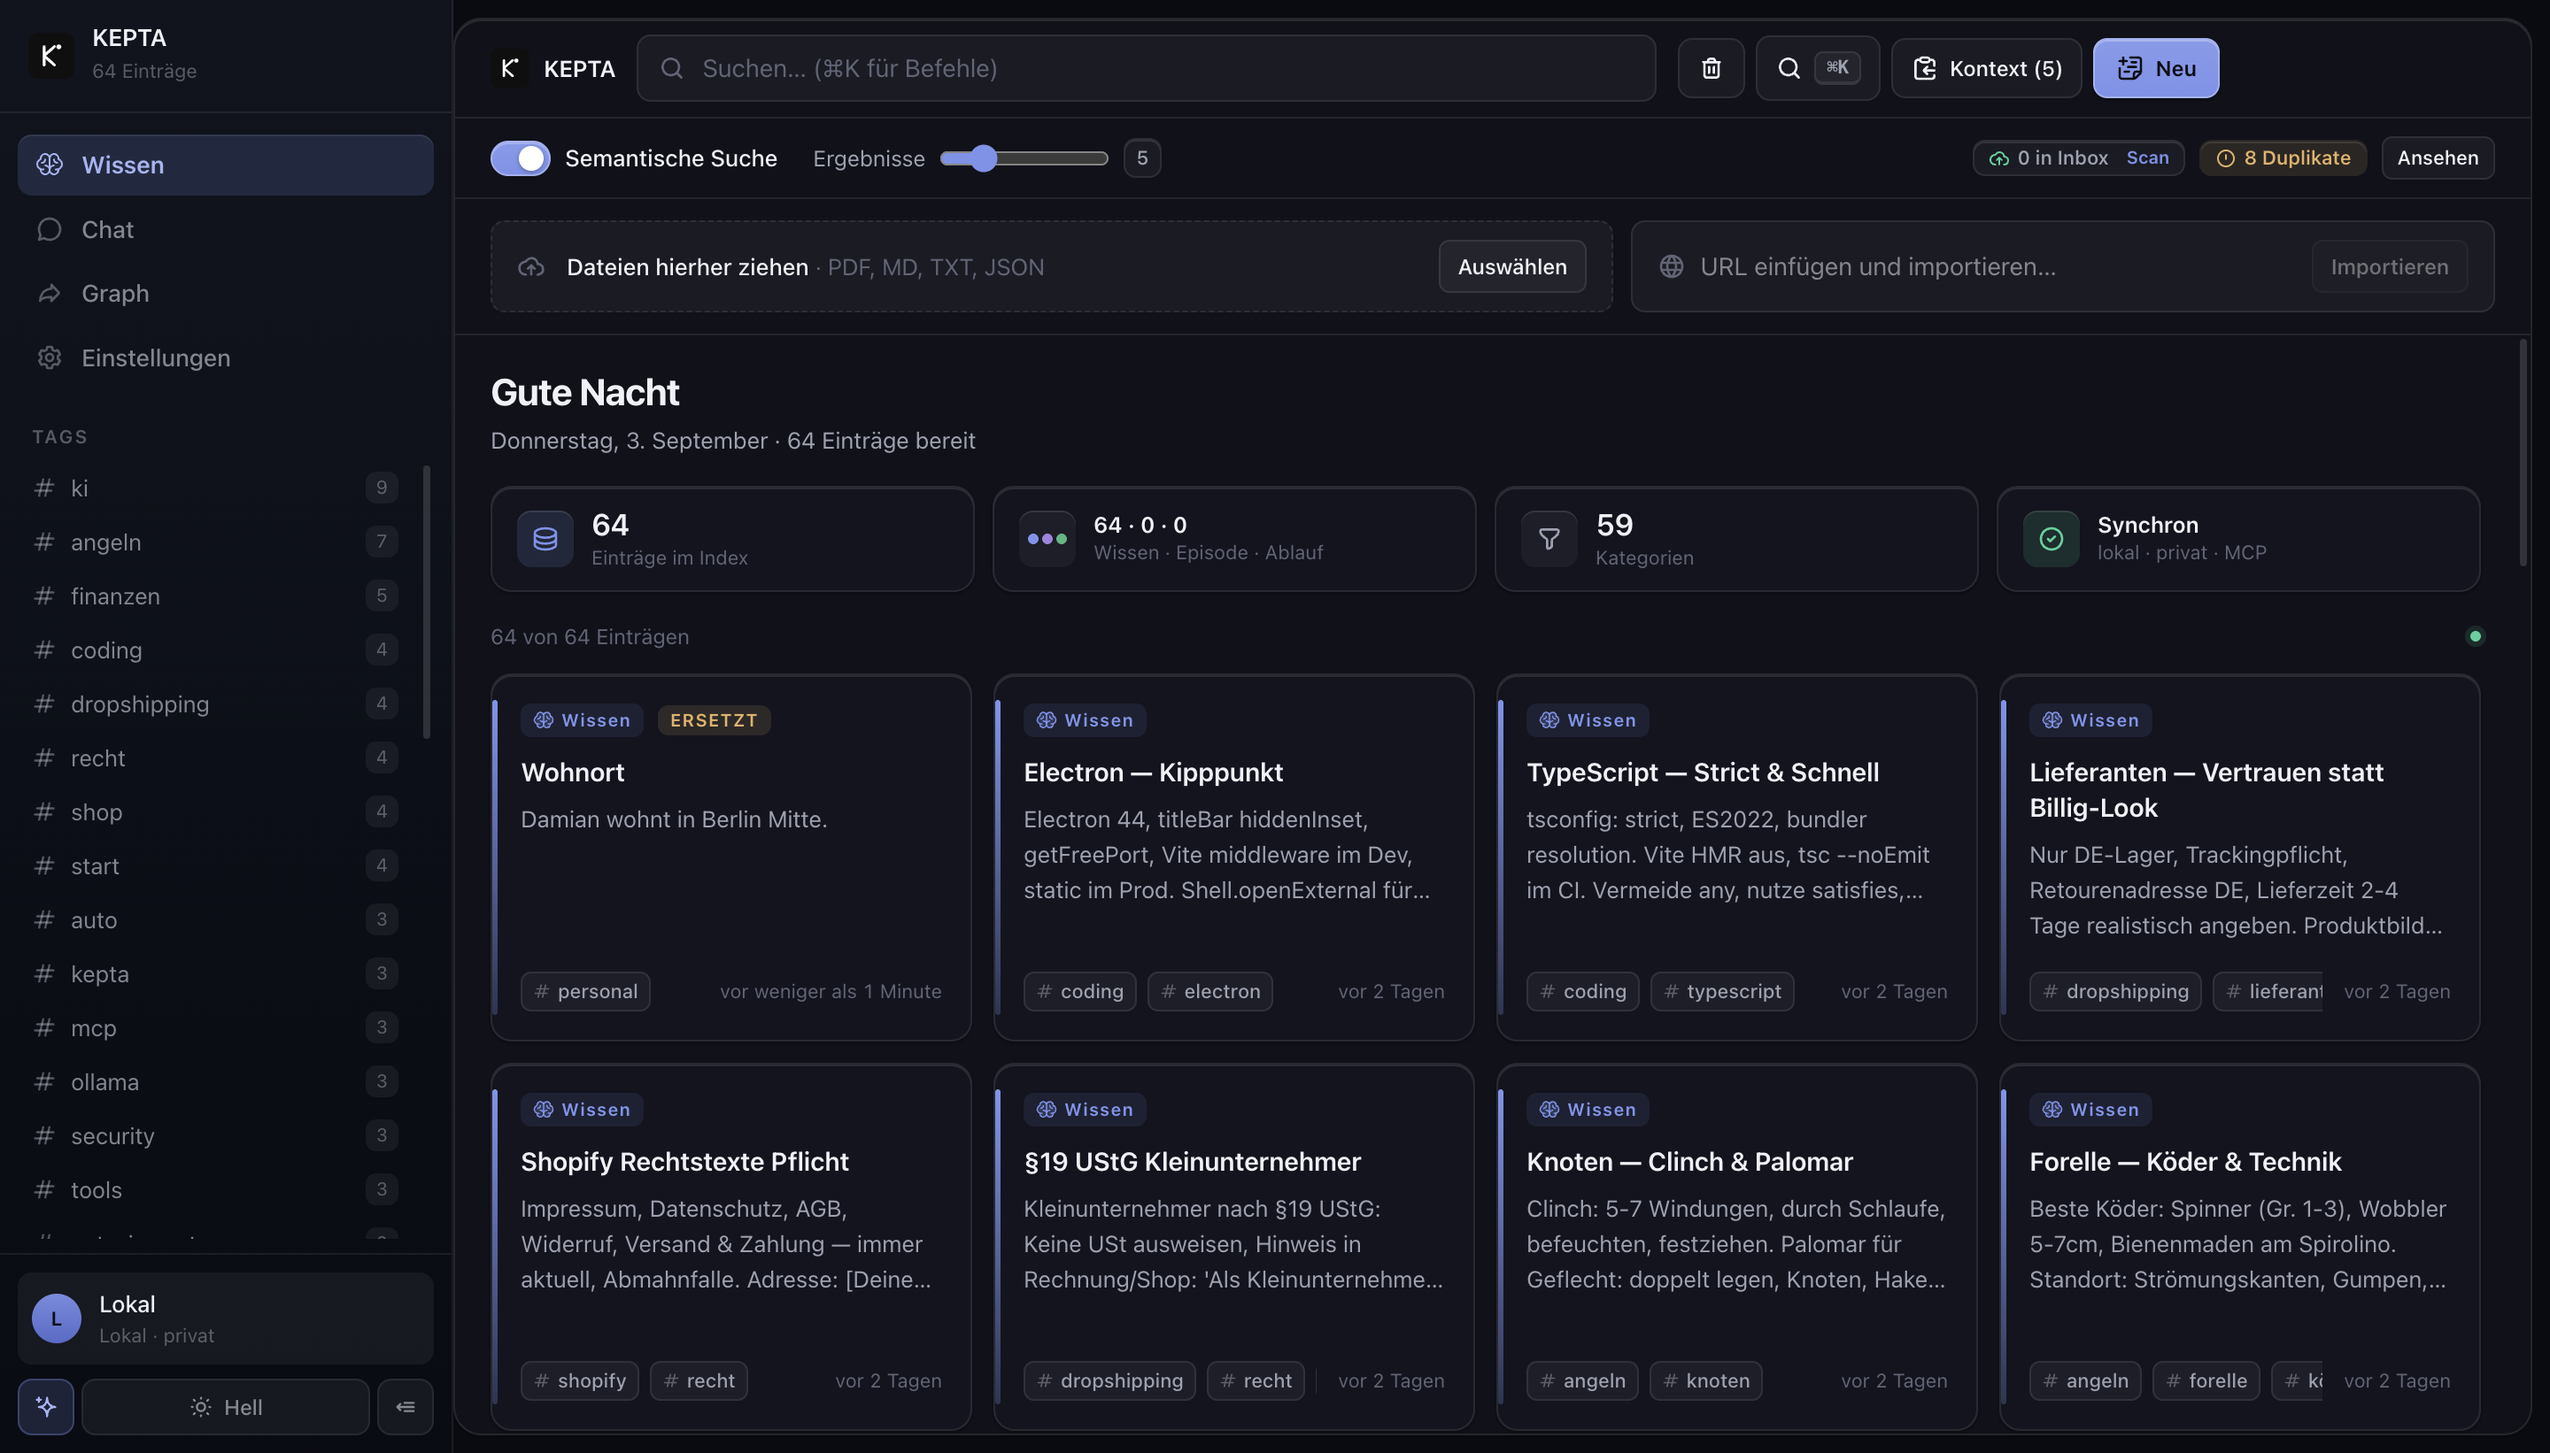
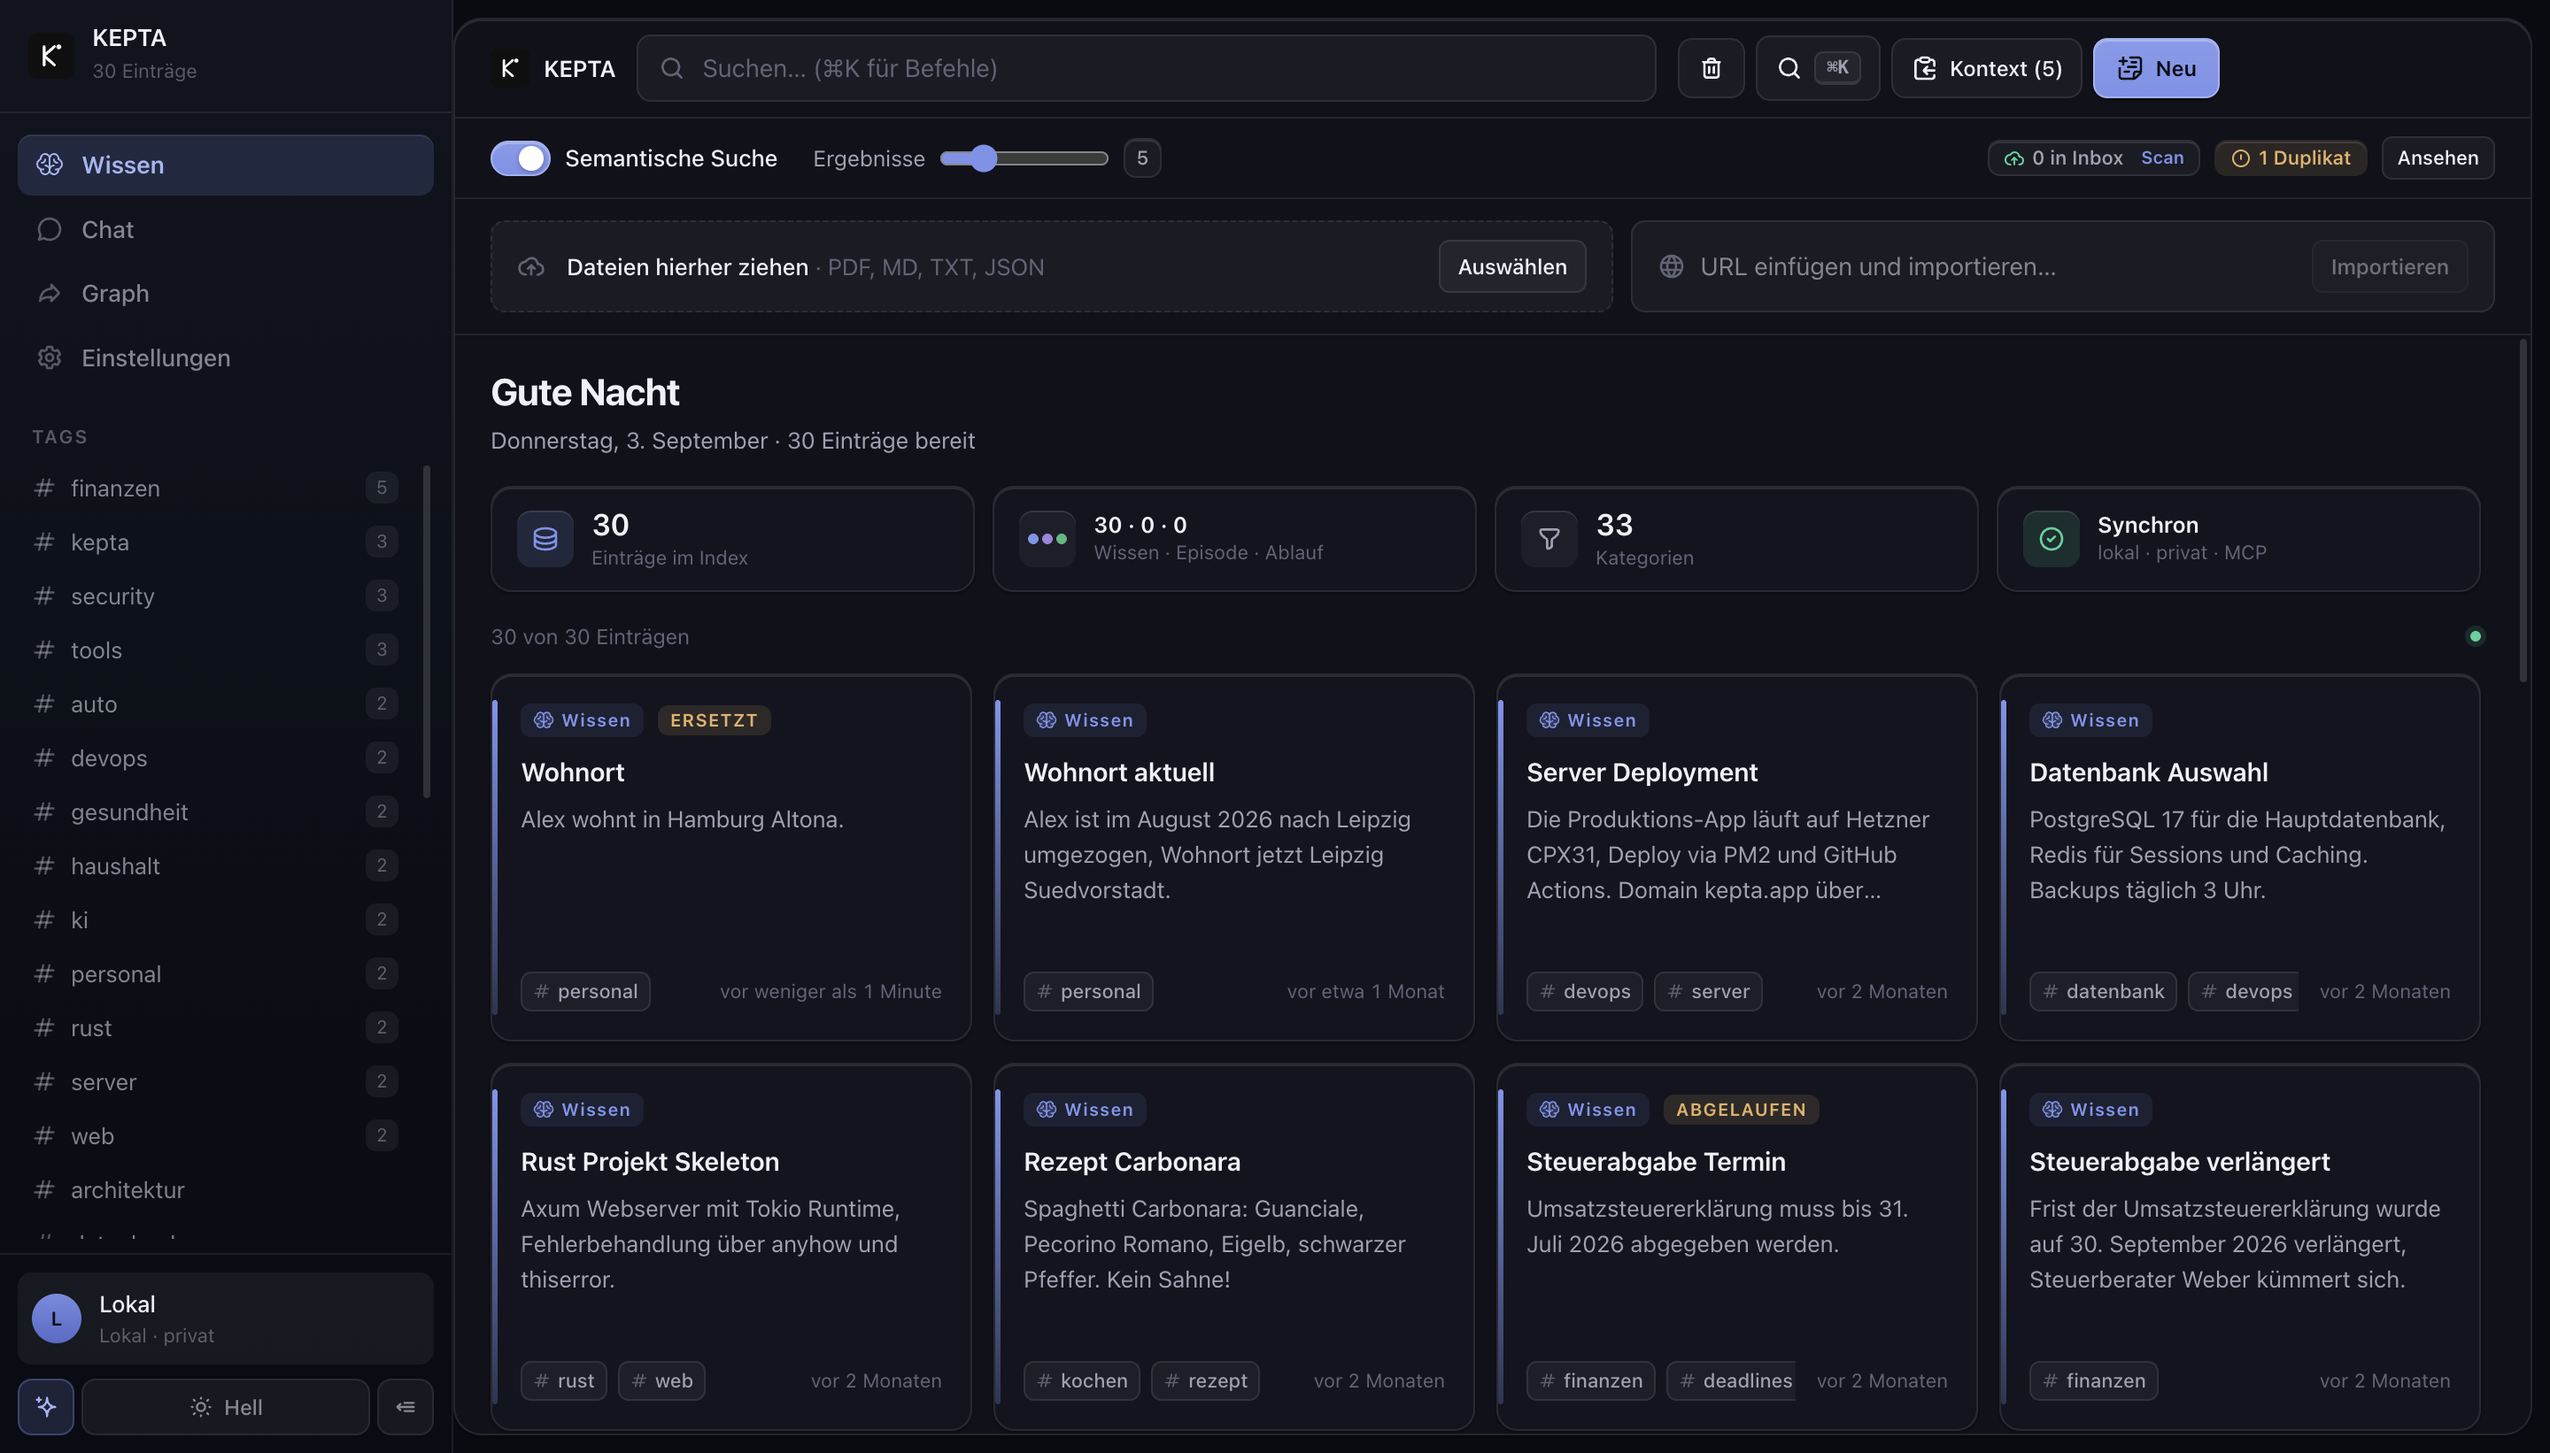
fix(privacy): persoenliche Daten aus Demo-Korpus, Tests und Screenshots entfernt
Im oeffentlichen Repo standen der echte Vorname des Betreibers, zwei Wohnorte und
eine Werkstatt mit Ansprechpartner. Die Screenshots zeigten zusaetzlich 34 Knoten
aus der echten Wissensbasis: Sie entstanden gegen ein Datenverzeichnis, in das
KEPTA beim Start automatisch ~/.ki-gehirn/memories.json migriert hatte.

- scripts/eval-corpus.ts: "Damian" -> "Alex"; Berlin/Muenchen -> Hamburg/Leipzig;
  "Auto Eder, Ansprechpartner Herr Kilic" -> neutrale Werkstatt ohne Person
- tests/: displayName und Wohnort-Fixtures entsprechend angeglichen
- Screenshots neu aufgenommen mit isoliertem HOME, damit die Legacy-Migration
  nicht greift: 30 Eintraege aus dem Demo-Korpus statt 64 inkl. echter Daten

Geprueft: Das ausgelieferte app.asar enthaelt keine Nutzerdaten — die drei
"Damian"-Treffer dort sind ausschliesslich die GitHub-URLs in package.json.

Eval unveraendert (Hit@1 92 %, Precision@5 92 %), 279 Tests gruen.

diff --git a/scripts/eval-corpus.ts b/scripts/eval-corpus.ts
@@ -23,8 +23,8 @@ const DAY = 24 * 3600 * 1000;
 export const CORPUS: EvalMemory[] = [
   { id: "m01", title: "Server Deployment", content: "Die Produktions-App läuft auf Hetzner CPX31, Deploy via PM2 und GitHub Actions. Domain kepta.app über Cloudflare.", tags: ["devops", "server"] },
   { id: "m02", title: "Datenbank Auswahl", content: "PostgreSQL 17 für die Hauptdatenbank, Redis für Sessions und Caching. Backups täglich 3 Uhr.", tags: ["datenbank", "devops"] },
-  { id: "m03", title: "Wohnort", content: "Damian wohnt in Berlin Mitte.", tags: ["personal"], updatedAt: EVAL_NOW - 400 * DAY },
-  { id: "m04", title: "Wohnort aktuell", content: "Damian ist im August 2026 nach München umgezogen, Wohnort jetzt München Schwabing.", tags: ["personal"], updatedAt: EVAL_NOW - 30 * DAY },
+  { id: "m03", title: "Wohnort", content: "Alex wohnt in Hamburg Altona.", tags: ["personal"], updatedAt: EVAL_NOW - 400 * DAY },
+  { id: "m04", title: "Wohnort aktuell", content: "Alex ist im August 2026 nach Leipzig umgezogen, Wohnort jetzt Leipzig Suedvorstadt.", tags: ["personal"], updatedAt: EVAL_NOW - 30 * DAY },
   { id: "m05", title: "Rust Projekt Skeleton", content: "Axum Webserver mit Tokio Runtime, Fehlerbehandlung über anyhow und thiserror.", tags: ["rust", "web"] },
   { id: "m06", title: "Rezept Carbonara", content: "Spaghetti Carbonara: Guanciale, Pecorino Romano, Eigelb, schwarzer Pfeffer. Kein Sahne!", tags: ["kochen", "rezept"] },
   { id: "m07", title: "Steuerabgabe Termin", content: "Umsatzsteuererklärung muss bis 31. Juli 2026 abgegeben werden.", tags: ["finanzen", " Deadlines"], validTo: EVAL_NOW - 30 * DAY },
@@ -43,7 +43,7 @@ export const CORPUS: EvalMemory[] = [
   { id: "m20", title: "Impfpass", content: "Tetanus-Auffrischung war 2019, nächste fällig 2029. Grippeimpfung jährlich im Oktober.", tags: ["gesundheit"] },
   { id: "m21", title: "Go vs Rust Entscheidung", content: "Für das CLI-Tool bleibt Rust, Go wurde verworfen weil Cross-Compilation zwar einfacher, aber Generics fehlen.", tags: ["rust", "go", "entscheidung"] },
   { id: "m22", title: "Autoversicherung", content: "Kfz-Versicherung bei HUK24, VW Golf, Kennzahl 4711, jährlich kündbar zum 31.12.", tags: ["auto", "finanzen"] },
-  { id: "m23", title: "Auto Werkstatt", content: "Vertragswerkstatt Auto Eder in München-Pasing, Ansprechpartner Herr Kilic, Terminvereinbarung online.", tags: ["auto"] },
+  { id: "m23", title: "Auto Werkstatt", content: "Vertragswerkstatt Nordring in Leipzig-Plagwitz, Terminvereinbarung online, Ersatzwagen auf Anfrage.", tags: ["auto"] },
   { id: "m24", title: "Sperrmüll Abholung", content: "Sperrmüll-Termin war am 15. Mai 2026, abgeschlossen.", tags: ["haushalt"], validTo: EVAL_NOW - 100 * DAY },
   { id: "m25", title: "Keller Renovierung", content: "Keller wird im Oktober 2026 renoviert, Handwerker Anton Bauer, Kostenvoranschlag 8500 Euro.", tags: ["haushalt"] },
   { id: "m26", title: "LLM Kontext", content: "Kontextfenster: GPT-5 400k Tokens, Claude Sonnet 1M, Gemini 2M. RAG reduziert Kosten um 90 Prozent.", tags: ["ki", "llm"] },
@@ -56,7 +56,7 @@ export const CORPUS: EvalMemory[] = [
 export const QUERIES: EvalQuery[] = [
   { query: "Wo läuft die Produktion?", relevant: ["m01"] },
   { query: "Welche Datenbank nutzen wir?", relevant: ["m02"] },
-  { query: "Wo wohnt Damian gerade?", relevant: ["m04"] },
+  { query: "Wo wohnt Alex gerade?", relevant: ["m04"] },
   { query: "Umsatzsteuer Frist", relevant: ["m08"] },
   { query: "Wie ist die hybride Suche implementiert?", relevant: ["m14"] },
   { query: "Welche Embedding-Modelle lokal?", relevant: ["m13"] },

diff --git a/tests/engine.test.ts b/tests/engine.test.ts
@@ -63,13 +63,13 @@ describe("searchMemories (RRF-Fusion)", () => {
   });
 
   it("markiert abgelaufene und ersetzte Memories und stuft sie herab", async () => {
-    store.createMemory({ title: "Wohnort", content: "Berlin Mitte", validTo: Date.now() - 1000, updatedAt: 9000 });
-    store.createMemory({ title: "Wohnort aktuell", content: "München Schwabing", validFrom: Date.now(), updatedAt: 8000 });
+    store.createMemory({ title: "Wohnort", content: "Hamburg Altona", validTo: Date.now() - 1000, updatedAt: 9000 });
+    store.createMemory({ title: "Wohnort aktuell", content: "Leipzig Suedvorstadt", validFrom: Date.now(), updatedAt: 8000 });
     seedEmbeddings(store);
 
     const res = await searchMemories(store, { query: "Wohnort" });
-    const expired = res.hits.find((h) => h.memory.content.includes("Berlin"));
-    const fresh = res.hits.find((h) => h.memory.content.includes("München"));
+    const expired = res.hits.find((h) => h.memory.content.includes("Hamburg"));
+    const fresh = res.hits.find((h) => h.memory.content.includes("Leipzig"));
     expect(expired?.expired).toBe(true);
     expect(fresh?.expired).toBe(false);
     // Abgelaufene wird trotz neuerem updatedAt durch Temporal-Faktor herabgestuft

diff --git a/tests/lib/profile.test.ts b/tests/lib/profile.test.ts
@@ -31,9 +31,9 @@ describe("loadProfile / saveProfile", () => {
   it("speichert und lädt ein Profil (roundtrip)", () => {
     // saveProfile spiegelt an /api/profile → fetch stubben, damit kein echter Call passiert
     vi.stubGlobal("fetch", vi.fn(async () => ({ ok: true }) as Response));
-    const p = { ...createDefaultProfile(), displayName: "Damian" };
+    const p = { ...createDefaultProfile(), displayName: "Alex" };
     saveProfile(p);
-    expect(loadProfile()?.displayName).toBe("Damian");
+    expect(loadProfile()?.displayName).toBe("Alex");
   });
 
   it("liefert null ohne gespeichertes Profil", () => {

diff --git a/tests/store.test.ts b/tests/store.test.ts
@@ -61,8 +61,8 @@ describe("KeptaStore CRUD", () => {
   });
 
   it("supersede verlinkt alte auf neue Memory", () => {
-    const old = store.createMemory({ title: "Wohnort", content: "Berlin" });
-    const neu = store.createMemory({ title: "Wohnort", content: "München", validFrom: Date.now() });
+    const old = store.createMemory({ title: "Wohnort", content: "Hamburg" });
+    const neu = store.createMemory({ title: "Wohnort", content: "Leipzig", validFrom: Date.now() });
     store.supersedeMemory(old.id, neu.id);
     expect(store.getMemory(old.id)?.supersededBy).toBe(neu.id);
   });

diff --git a/tests/server.test.ts b/tests/server.test.ts
@@ -178,9 +178,9 @@ describe("Diverse Routen", () => {
   });
 
   it("POST /api/profile speichert, GET liest zurück", async () => {
-    await request(app).post("/api/profile").send({ displayName: "Damian" });
+    await request(app).post("/api/profile").send({ displayName: "Alex" });
     const res = await request(app).get("/api/profile");
-    expect(res.body.displayName).toBe("Damian");
+    expect(res.body.displayName).toBe("Alex");
   });
 });
 

diff --git a/scripts/eval.ts b/scripts/eval.ts
@@ -84,7 +84,7 @@ async function main() {
       updatedAt: m.updatedAt ?? now - 60 * 24 * 3600 * 1000,
     });
   }
-  // Temporale Kette: m03 (Berlin) wird durch m04 (München) ersetzt
+  // Temporale Kette: m03 (Hamburg) wird durch m04 (Leipzig) ersetzt
   store.supersedeMemory("m03", "m04");
   // Duplikat-Paar m16/m17 bleibt — Engine-Konsolidierung würde es finden
 
